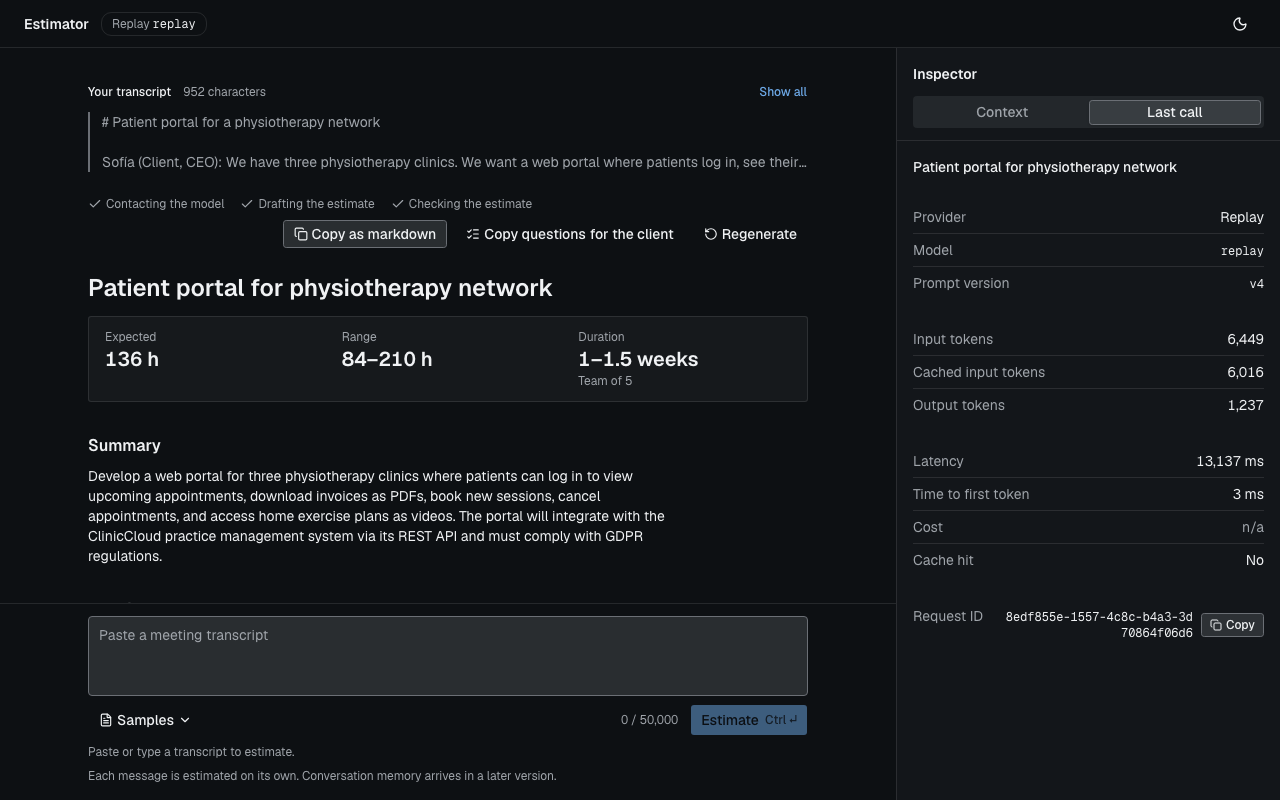
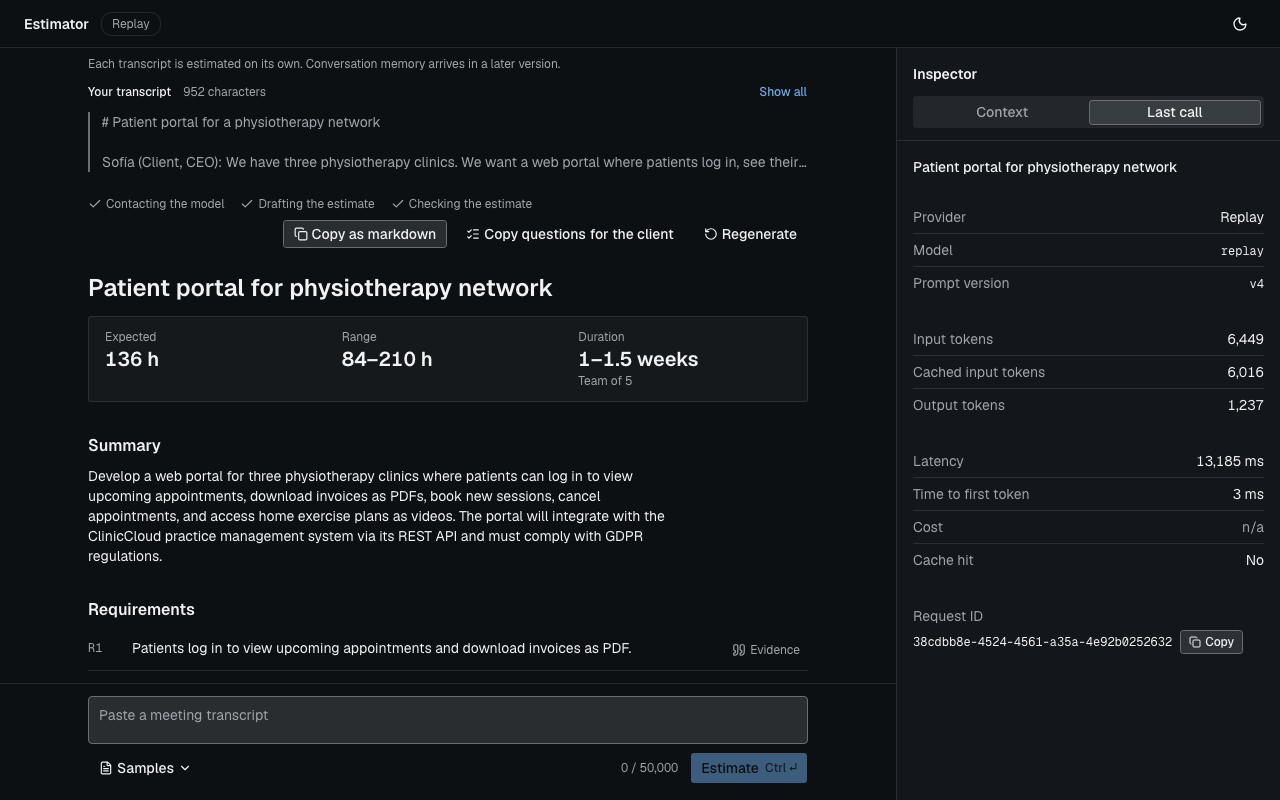
test(e2e): axe best practices, longer regenerate wait, media refresh
- axe runs WCAG 2.2 AA plus best-practice rules; still zero serious or
  critical findings in every state, both themes.
- The post-Regenerate completion wait has an explicit 45 s timeout, and
  the comments say a replay takes about 13 s end to end (not 8-12 s).
- mobile.png shows the inspector sheet open on the Last call tab; the
  GIF holds on the tasks table and on the "Estimate copied" toast.
- Media regenerated with MEDIA=1 make e2e (zero spend, replay): compact
  composer, memory note above the thread, unbroken request ID, header
  chip without "Replay replay". README captions and the replay timing
  follow.

diff --git a/web/e2e/chat.spec.ts b/web/e2e/chat.spec.ts
@@ -9,9 +9,10 @@ const MEDIA = process.env.MEDIA === "1";
 const MEDIA_DIR = path.join(__dirname, "..", "..", "docs", "media", "session-03");
 if (MEDIA) mkdirSync(MEDIA_DIR, { recursive: true });
 
-// Its replay cassette streams for about 12 s, long enough to act mid-stream.
+// Its replay cassette streams for about 13 s end to end, long enough to act mid-stream.
 const SAMPLE = "Clinic portal";
-const WCAG = ["wcag2a", "wcag2aa", "wcag21a", "wcag21aa", "wcag22aa"];
+// WCAG 2.2 AA plus axe's best practices; only serious and critical findings fail the run.
+const AXE_TAGS = ["wcag2a", "wcag2aa", "wcag21a", "wcag21aa", "wcag22aa", "best-practice"];
 
 const shot = async (page: Page, name: string) => {
   // "disabled" finishes transitions (a tab mid-switch) and stops the skeleton pulse
@@ -30,7 +31,7 @@ const saveGif = (webm: string) => {
 };
 
 const expectAccessible = async (page: Page, state: string) => {
-  const { violations } = await new AxeBuilder({ page }).withTags(WCAG).analyze();
+  const { violations } = await new AxeBuilder({ page }).withTags(AXE_TAGS).analyze();
   const blocking = violations
     .filter(({ impact }) => impact === "serious" || impact === "critical")
     .map(({ id, impact, nodes }) => ({ id, impact, targets: nodes.map(({ target }) => target.join(" ")) }));
@@ -83,8 +84,8 @@ const expectPartial = (page: Page) =>
     )
     .toBe(true);
 
-const expectResult = async (page: Page) => {
-  await expect(estimate(page).getByRole("status")).toHaveText("Estimate ready");
+const expectResult = async (page: Page, { timeout }: { timeout?: number } = {}) => {
+  await expect(estimate(page).getByRole("status")).toHaveText("Estimate ready", { timeout });
   await expect(estimate(page)).toHaveAttribute("aria-busy", "false");
   await expect(totals(page).locator("[data-slot=skeleton]")).toHaveCount(0);
   await expect(totals(page)).toContainText(/Expected\s*[\d,.]+ h/);
@@ -132,6 +133,8 @@ test.describe("chat", () => {
     await expect(valueOf(call, "Request ID").locator("code")).toHaveText(requestId);
     await expectOneLine(valueOf(call, "Request ID").locator("code"), "the request ID");
     await shot(page, "result-inspector");
+    await tasks.scrollIntoViewIfNeeded();
+    if (MEDIA) await page.waitForTimeout(1500); // the GIF holds on the tasks table
 
     await estimate(page).getByRole("button", { name: /^Evidence for / }).first().hover();
     const evidence = page.locator("[data-slot=hover-card-content]");
@@ -155,6 +158,7 @@ test.describe("chat", () => {
     expect(toast.fontSize).toBe("14px");
     expect(toast.fontFamily).toBe(toast.body);
     if (MEDIA) {
+      await page.waitForTimeout(1500); // the GIF holds on the toast
       await page.screencast.stop();
       saveGif(video);
     }
@@ -176,7 +180,7 @@ test.describe("chat", () => {
     await regenerate.click();
     await expect(page.getByRole("button", { name: "Stop", exact: true })).toBeVisible();
     await expect(stopped(page)).toHaveCount(0);
-    await expectResult(page);
+    await expectResult(page, { timeout: 45_000 }); // a whole replay (about 13 s), under parallel load
     await expect(page.getByRole("button", { name: "Copy as markdown" })).toBeVisible();
   });
 
@@ -270,7 +274,6 @@ test.describe("375 px wide", () => {
     await sendSample(page);
     await expectResult(page);
     await expectNoHorizontalScroll(page);
-    await shot(page, "mobile");
 
     const trigger = page.getByRole("button", { name: "Inspector" });
     await trigger.click();
@@ -282,6 +285,7 @@ test.describe("375 px wide", () => {
     await expectOneLine(valueOf(call, "Request ID").locator("code"), "the request ID");
     await expectNoHorizontalScroll(page);
     await expectAccessible(page, "inspector sheet");
+    await shot(page, "mobile");
 
     await page.keyboard.press("Escape");
     await expect(sheet).toHaveCount(0);

diff --git a/web/playwright.config.ts b/web/playwright.config.ts
@@ -6,7 +6,7 @@ export default defineConfig({
   testDir: "./e2e",
   // Every test has its own browser context (and so its own sessionStorage thread); the replay streams run concurrently.
   fullyParallel: true,
-  // A recorded stream replays in 8–12 s, so a test that waits for one or two results needs more than the default 30 s.
+  // A recorded stream replays in about 8–13 s end to end, so a test that waits for one or two results needs more than the default 30 s.
   timeout: 90_000,
   expect: { timeout: 20_000 },
   forbidOnly: Boolean(process.env.CI),

diff --git a/README.md b/README.md
@@ -104,7 +104,7 @@ The AI service reads environment variables and `.env` (pydantic-settings; enviro
 | `REDIS_URL` | unset | exact-match response cache; unset disables it. Compose sets it to its own Redis |
 | `CACHE_TTL_SECONDS` | `86400` | cache entry lifetime |
 | `REPLAY_CASSETTE_DIR` | `tests/cassettes` | where `replay` looks for recorded streams |
-| `REPLAY_DELAY_SCALE` | `1` | `replay` pacing: `0` instant, `1` as recorded (a recorded estimate takes 8–12 s) |
+| `REPLAY_DELAY_SCALE` | `1` | `replay` pacing: `0` instant, `1` as recorded (a recorded estimate takes about 8–13 s end to end) |
 | `LLM_TEMPERATURE` | `0.2` | sent only to models that support it |
 | `LLM_REASONING_EFFORT` | unset | `none`/`minimal`/`low`/`medium`/`high`/`xhigh`/`max`; sent only to reasoning models that accept that level (others get no effort and a startup warning listing the supported levels) |
 | `LLM_TIMEOUT_SECONDS`, `LLM_MAX_RETRIES`, `LLM_MAX_OUTPUT_TOKENS` | `60`, `2`, `4096` | the timeout applies per read; SDK retries apply only to the last provider in the chain (the router is the retry for the others) |
@@ -320,9 +320,9 @@ Produced by `MEDIA=1 make e2e` against the offline stack. The inspector therefor
 
 | Dark theme | Mobile (375 px) |
 |---|---|
-| ![Completed estimate and the Last call tab in the dark theme](docs/media/session-03/dark-theme.png) | ![Completed estimate at 375 px, inspector behind a header button](docs/media/session-03/mobile.png) |
+| ![Completed estimate and the Last call tab in the dark theme](docs/media/session-03/dark-theme.png) | ![The inspector at 375 px: a sheet opened from a header button, on the Last call tab](docs/media/session-03/mobile.png) |
 
-![Pick a sample, stream the estimate, inspect the call, copy as markdown](docs/media/session-03/chat.gif)
+![Pick a sample, stream the estimate, inspect the call, read the tasks table, copy as markdown](docs/media/session-03/chat.gif)
 
 ### Known limitations
 
